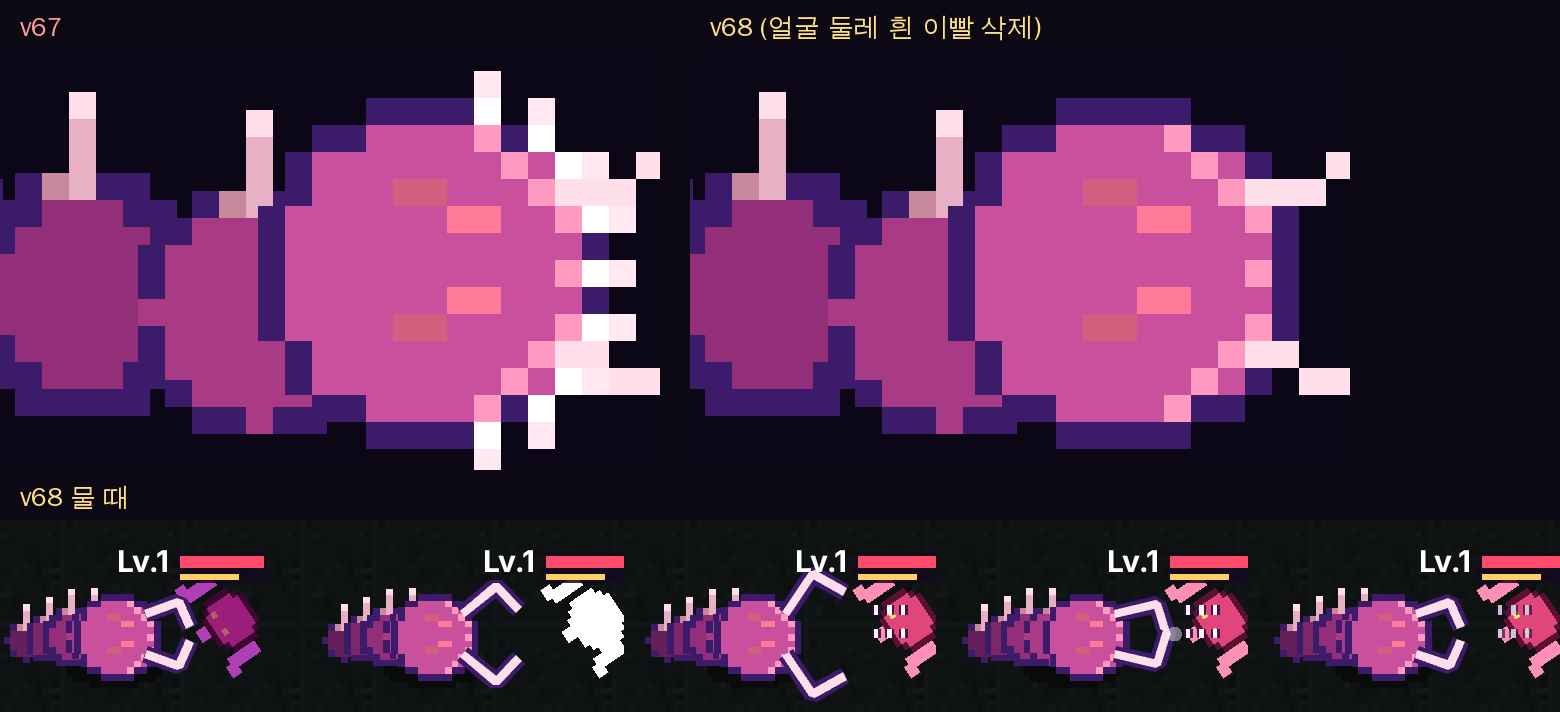
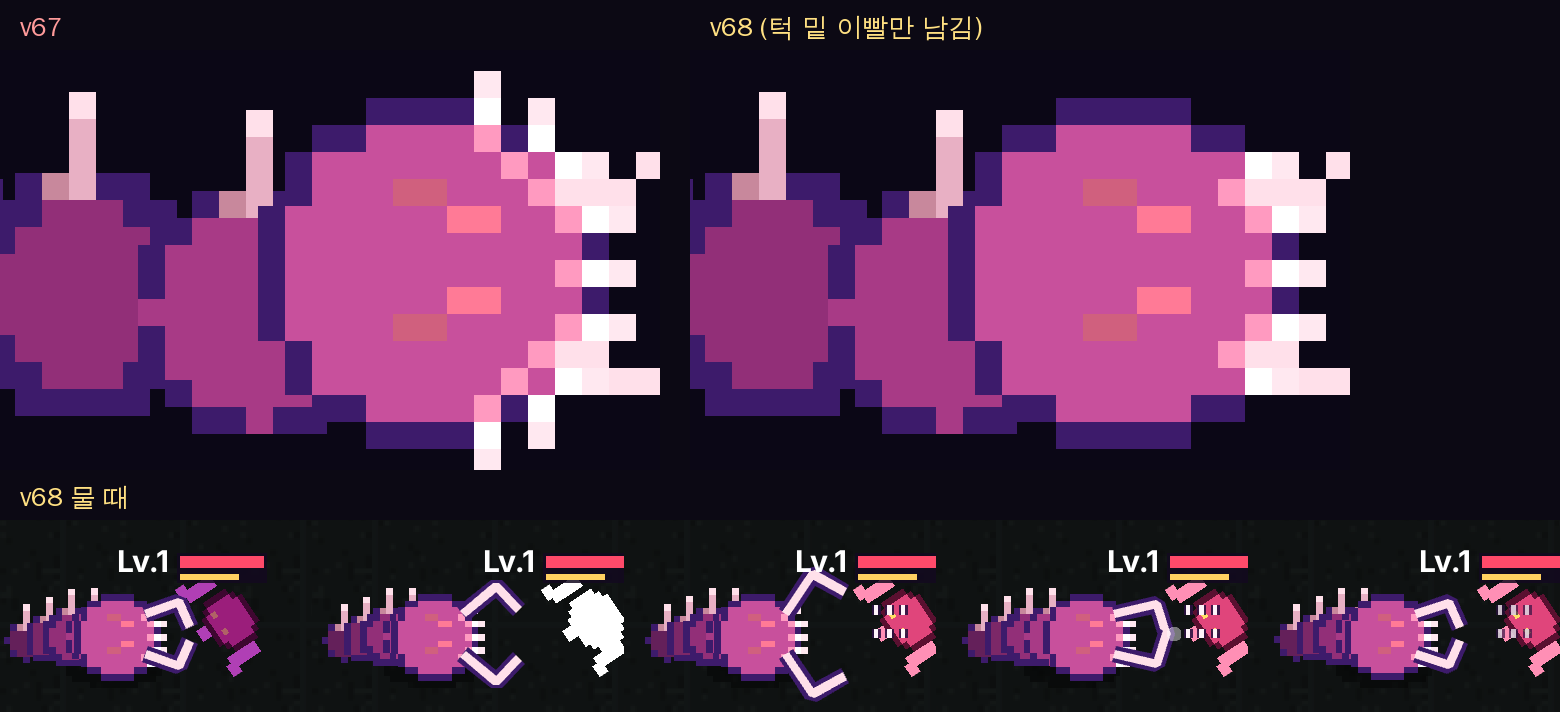
v68 수정: 턱 밑 이빨은 살리고 얼굴 옆으로 뻗은 이빨만 삭제
Claude-Session: https://claude.ai/code/session_01N8ASC1LkgouQjv8iN6UUFE

diff --git a/index.html b/index.html
@@ -73,7 +73,7 @@ function skinTex(s,key,L){if(s.textures.exists('wh_'+key))return;
   if(L.v>=3)for(let a=Math.PI*.55;a<Math.PI*1.45;a+=.12)px(x,c+Math.cos(a)*(r-.6),c+Math.sin(a)*(r-.6),'#dfe6ff');
   if(L.c>=1){const t=L.c;skCry(px,x,c-2,c-r+1,-1.97,t>=3?3.8:3,t>=3?1.3:1.2);if(t>=2){skCry(px,x,c-2,c+r-1,1.97,t>=3?3.4:3,t>=3?1.05:1.2);skCry(px,x,c+1.5,c-r+1.5,-1.45,2,.9)}if(t>=3){skCry(px,x,c-4,c-r+2,-2.4,2.6,.9);skCry(px,x,c+.5,c+r-1,1.6,1.9,.8);for(const[a,b]of[[-1,1],[1,-1],[-3,0]])px(x,c+a,c+b,'#bfeaff')}}
   if(L.p>=1&&!nj){ln(x,c+r-1,c-3,c+r+3,c-4,'#ffe0ea');ln(x,c+r+3,c-4,c+r+4,c-1,'#ffe0ea');ln(x,c+r-1,c+3,c+r+3,c+4,'#ffe0ea');ln(x,c+r+3,c+4,c+r+4,c+1,'#ffe0ea')}
-  if(L.p>=3){for(let a=-1.25;a<=1.2501;a+=.31){const cx=Math.cos(a),sy=Math.sin(a);px(x,c+cx*(r-.6),c+sy*(r-.6),'#ff9ac0')}}
+  if(L.p>=3){for(let a=-.63;a<=.6301;a+=.31){const cx=Math.cos(a),sy=Math.sin(a);px(x,c+cx*(r-.6),c+sy*(r-.6),'#ff9ac0');for(let k=.6;k<=1.8;k+=.8)px(x,c+cx*(r+k),c+sy*(r+k),k+.8>1.8?'#ffe8f0':'#ffffff')}}
   const ec=L.p>=2?'#ff5a7a':'#ffffff';if(L.p>=3){px(x,c+1,c-2,'#ff7a96');px(x,c+2,c-2,'#ff7a96');px(x,c+1,c+1,'#ff7a96');px(x,c+2,c+1,'#ff7a96');px(x,c-1,c-3,'#d0607e');px(x,c,c-3,'#d0607e');px(x,c-1,c+2,'#d0607e');px(x,c,c+2,'#d0607e')}else{px(x,c+2,c-2,ec);px(x,c+2,c+1,ec)}
   if(L.v>=1){disc(x,c-1,c,1.9,'#ffe0ff');disc(x,c-1,c,1.1,'#c070ff');px(x,c-1,c,'#fff')}
   if(L.v>=2){disc(x,c-1,c-r-2.2,1.3,'#c070ff');px(x,c-1,c-r-2,'#f0c8ff');disc(x,c-1,c+r+2.2,1.3,'#c070ff');px(x,c-1,c+r+2,'#f0c8ff')}};tex(s,'wh_'+key,24,24,2,HF(0));tex(s,'whj_'+key,24,24,2,HF(1));

diff --git a/dev/v68/v68_patch.py b/dev/v68/v68_patch.py
@@ -1,5 +1,5 @@
 #!/usr/bin/env python3
-"""v67 -> v68: 포식 3단계 얼굴 둘레의 흰 송곳니(이빨 왕관의 흰 부분) 삭제 — 갈고리 턱·분홍 잇몸 점은 그대로
+"""v67 -> v68: 포식 3단계 이빨 왕관을 턱 밑(앞쪽 ±0.63rad, 5개)만 남기고 얼굴 옆으로 뻗은 이빨·잇몸 점 삭제 — 갈고리 턱은 그대로
 사용: python3 dev/v68/v68_patch.py index.html"""
 import sys
 P = sys.argv[1] if len(sys.argv) > 1 else 'index.html'
@@ -11,7 +11,6 @@ def rep(old, new, cnt=1):
     s = s.replace(old, new)
 rep('<title>공허 기생충 v67</title>', '<title>공허 기생충 v68</title>')
 rep("window.VP_VER='v67';", "window.VP_VER='v68';")
-rep("px(x,c+cx*(r-.6),c+sy*(r-.6),'#ff9ac0');for(let k=.6;k<=1.8;k+=.8)px(x,c+cx*(r+k),c+sy*(r+k),k+.8>1.8?'#ffe8f0':'#ffffff')}}",
-    "px(x,c+cx*(r-.6),c+sy*(r-.6),'#ff9ac0')}}")
+rep("if(L.p>=3){for(let a=-1.25;a<=1.2501;a+=.31){", "if(L.p>=3){for(let a=-.63;a<=.6301;a+=.31){")
 open(P, 'w', encoding='utf-8').write(s)
 print('ok', P, len(s))

diff --git a/DEVLOG.md b/DEVLOG.md
@@ -571,8 +571,8 @@
 ## 51. v67에서 한 일 (2026-11-21) — 포식 3단계는 더 큰 턱으로 물기
 개발자 의견(2026-11-21): 포식 3단계는 공격할 때 더 큰 턱으로. 패치 `dev/v67/v67_patch.py` (`pjU`): 포식 3단계 물기 중 갈고리 턱 크기 = 1.3배 × (1 + 0.35×big) — 벌리는 동안 최대 약 1.75배, 벌림 각도 0.62→최대 0.80rad, 다문 뒤 0.3 동안 원래 크기로. 판정은 그대로. 그림 `docs/v65/p3_bigjaw_v67.png`. 최종 보스 1판 · JS 오류 0.
 
-## 52. v68에서 한 일 (2026-11-21) — 포식 3단계 얼굴 둘레 흰 이빨 삭제
-개발자 요청(2026-11-21): 턱을 뺀 얼굴 옆의 흰색들만 지우기. 패치 `dev/v68/v68_patch.py`: 이빨 왕관의 흰 송곳니(#ffffff·끝 #ffe8f0) 삭제, 분홍 잇몸 점·갈고리 턱·눈 4개는 그대로. 그림 `docs/v65/p3_v68.png`.
+## 52. v68에서 한 일 (2026-11-21) — 포식 3단계 이빨 왕관을 턱 밑만
+개발자 요청(2026-11-21): 턱을 뺀 얼굴 옆의 흰색 지우기 → (전부 지운 첫 시도 후) '턱 밑 이빨은 살리고 옆부분까지 과한 것만'. 패치 `dev/v68/v68_patch.py`: 이빨 왕관 범위 ±1.25rad(9개) → **±0.63rad(턱 밑 앞쪽 5개)**, 얼굴 옆으로 뻗은 이빨·잇몸 점 삭제. 갈고리 턱·눈 4개는 그대로. 그림 `docs/v65/p3_v68.png`.
 
 ## 53. 다음 할 일 (우선순위)
 0. 폰에서 v56 확인 — 물기 이빨 자국(S3) 체감, 배고픔 없는 체감(너무 쉬워지지 않는지), 땅울음 (공개 링크 = v56)

diff --git a/HANDOFF.md b/HANDOFF.md
@@ -40,7 +40,7 @@
 | v51 | (이번 PR) | 물기 전진 **맞았을 때만 0.06초(~6px)** · 땅울음 `rkBurst`(흔들림 170px 안만 약하게 + 땅 갈라짐) · 턱 모션 시안 J1~J3(`jawDraw`, `window.__vpJaw`) |
 | v52 | (이번 PR) | 턱 모션 **J1 송곳니 한 쌍 확정**, 크기 줄임(길이 12→8), J2·J3 삭제 |
 | v53 | (이번 PR) | 송곳니 **교차 0**(`fangPts` 곡선 재정의, 테두리 포함 틈 ≥ 3.5px, `tools/fanggap.js`로 측정) |
-| v68 | (PR #10) | 포식 3단계 얼굴 둘레 흰 송곳니 삭제 (분홍 잇몸 점만) |
+| v68 | (PR #10) | 포식 3단계 이빨 왕관을 턱 밑 앞쪽 5개만 (±0.63rad) |
 | v67 | (PR #10) | 포식 3단계 물기 때 갈고리 턱 최대 1.75배·더 넓게 (`pjU` big) |
 | v66 | (PR #10) | 포식 3단계 눈 4개를 턱 쪽으로 1칸씩(가로 2칸) |
 | v65 | (PR #10) | 포식 3단계 E-a 이빨 왕관 + 작은 눈 4개 · 분홍 입/비치는 몸 삭제 |

diff --git a/README.md b/README.md
@@ -60,7 +60,7 @@
 
 ## 변경 기록
 
-- **v68** 포식 3단계 얼굴 둘레의 흰 이빨 삭제(갈고리 턱은 그대로)
+- **v68** 포식 3단계 이빨은 턱 밑 앞쪽만 남기고 얼굴 옆으로 뻗은 것 삭제
 - **v67** 포식 3단계는 물 때 갈고리 턱이 크게 커지며 넓게 벌렸다 다묾
 - **v66** 포식 3단계 눈을 턱 쪽으로 1칸씩 늘린 가로 2칸 눈으로 (매섭게)
 - **v65** 포식 3단계: 머리 앞 이빨 왕관 + 작은 눈 4개, 마디는 원래 가시
